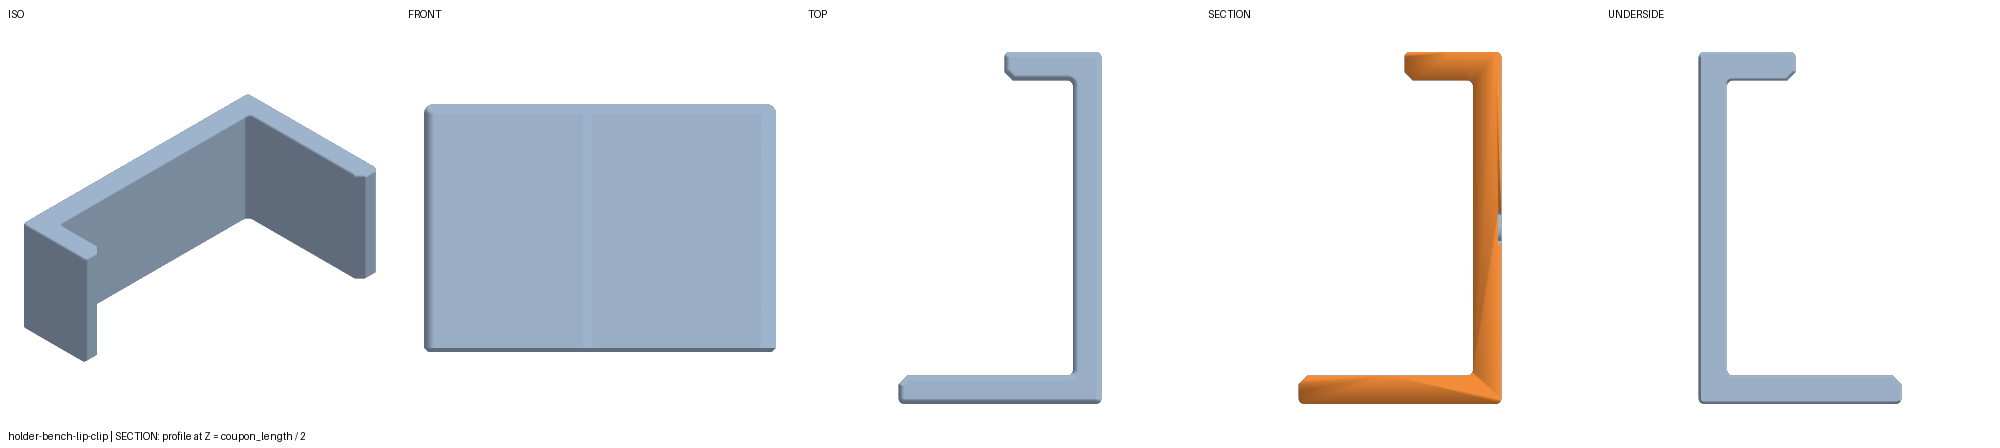
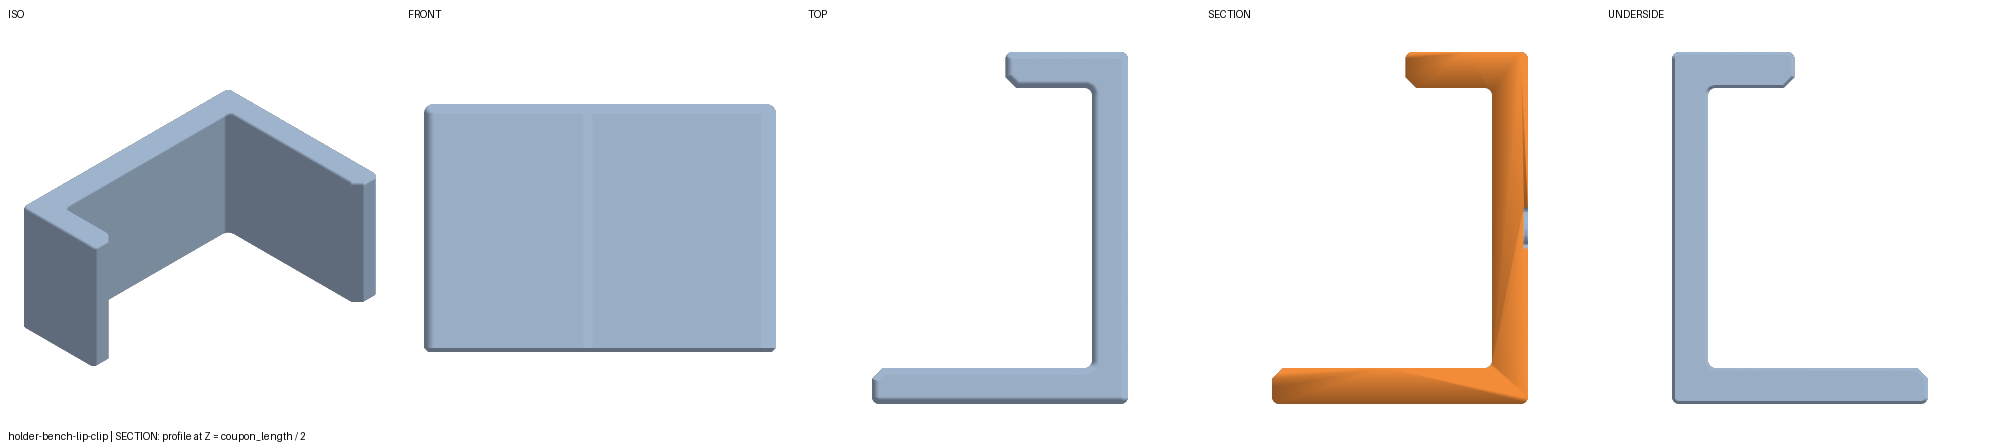
pst-czxuk.2: bench lip clip slab_thickness default 50.8 -> 38, min 40 -> 31 (#247)
Sean re-measured the bench top on 2026-10-29: the slab is 38 mm, not the
2 in (50.8 mm) tape reading from 2026-10-28. The default follows the new
measurement; both readings stay in the docstring and docs provenance.

The min of 31 is forced by the existing SUM guard
(slab_thickness + height_clearance >= 30), not by the slab itself: at
height_clearance's min of -0.5, 31 is the smallest whole mm that still
builds (30.5 >= 30; 30 would give 29.5). Do not "tidy" it to 30.

Regenerated: manifest.json, the provisional geometry baseline
(rebaseline.py --geometry-only; only the five holder-bench-lip-clip rows
change), and the review sheet + section golden for this model.

Claude-Session: https://claude.ai/code/session_01AkGBcKGqvHn6QevgemJQUs

🤖 Generated with [Claude Code](https://claude.com/claude-code)

diff --git a/build123d/holders/bench_lip_clip.py b/build123d/holders/bench_lip_clip.py
@@ -1,9 +1,10 @@
 """Bench lip clip, step 1: the fit-test coupon (pst-czxuk.1).
 
-A C-clip that hooks the lip of a cast faux-wood bench top (Sean's rough
-measurements: slab 2 in = 50.8 mm thick, lip 1/2 in = 12.7 mm beyond the
-end block; docs/bench-lip-clip.md). The coupon only dials in the grip; step 2
-extrudes the same lip_clip_profile() longer and adds the 1/4"-20 insert boss.
+A C-clip that hooks the lip of a cast faux-wood bench top (slab 38 mm thick,
+re-measured 2026-10-29 after the 2026-10-28 tape read 2 in = 50.8 mm; lip
+1/2 in = 12.7 mm beyond the end block; docs/bench-lip-clip.md). The coupon
+only dials in the grip; step 2 extrudes the same lip_clip_profile() longer
+and adds the 1/4"-20 insert boss.
 
 Model frame = print frame: the profile is the footprint in XY, extruded +Z
 by coupon_length, so the part is a prism and prints as modelled. X runs
@@ -38,7 +39,7 @@ TOP_RADIUS = 1.0      # top (upward) edges, §2 (R >= 1)
 LABEL_END_MARGIN = 2.0  # ink to each coupon end: width <= coupon_length - 4
 
 PARAMS = (
-    Param('slab_thickness', 'number', 50.8, min=40, max=70, step=0.1, unit='mm',
+    Param('slab_thickness', 'number', 38.0, min=31, max=70, step=0.1, unit='mm',
           group='Bench', label='Slab thickness'),
     Param('height_clearance', 'number', 0.8, min=-0.5, max=4.0, step=0.1, unit='mm',
           group='Fit', label='Height clearance', filename=True),

diff --git a/build123d/tests/test_bench_lip_clip.py b/build123d/tests/test_bench_lip_clip.py
@@ -32,7 +32,7 @@ CORNERS = [
     {'height_clearance': -0.5, 'edge_gap': 0, 'jaw_root_radius': 2, 'hook_depth': 6},  # tightest mouth
     {'slab_thickness': 70, 'height_clearance': 4, 'top_reach': 60, 'wall': 8,
      'edge_gap': 2, 'hook_depth': 20, 'coupon_length': 60},  # largest footprint
-    {'slab_thickness': 40, 'height_clearance': -0.5, 'top_reach': 20, 'hook_depth': 20},
+    {'slab_thickness': 31, 'height_clearance': -0.5, 'top_reach': 20, 'hook_depth': 20},
 ]
 ENDPOINTS = [{q.name: v} for q in NUMERIC for v in (q.min, q.max)
              if (q.name, v) not in EXPECTED_ERRORS]

diff --git a/build123d/docs/bench-lip-clip.md b/build123d/docs/bench-lip-clip.md
@@ -9,7 +9,9 @@ as a five-coupon kit to dial in the grip before the full clamp is drawn.
 
 Sean's rough tape measurements (2026-10-28), which the coupon exists to refine:
 
-- Slab (bench top) thickness ≈ 2 in = **50.8 mm** → `slab_thickness` default.
+- Slab (bench top) thickness ≈ 2 in = **50.8 mm** (the original default).
+- Re-measured 2026-10-29 with a better method: slab thickness **38 mm** →
+  `slab_thickness` default.
 - Lip depth (overhang beyond the pumpkin end block) ≈ 1/2 in = **12.7 mm** →
   `hook_depth` default 11.5 = 12.7 − 1.2 mm margin, so the hook clears the end
   block even near the ends.
